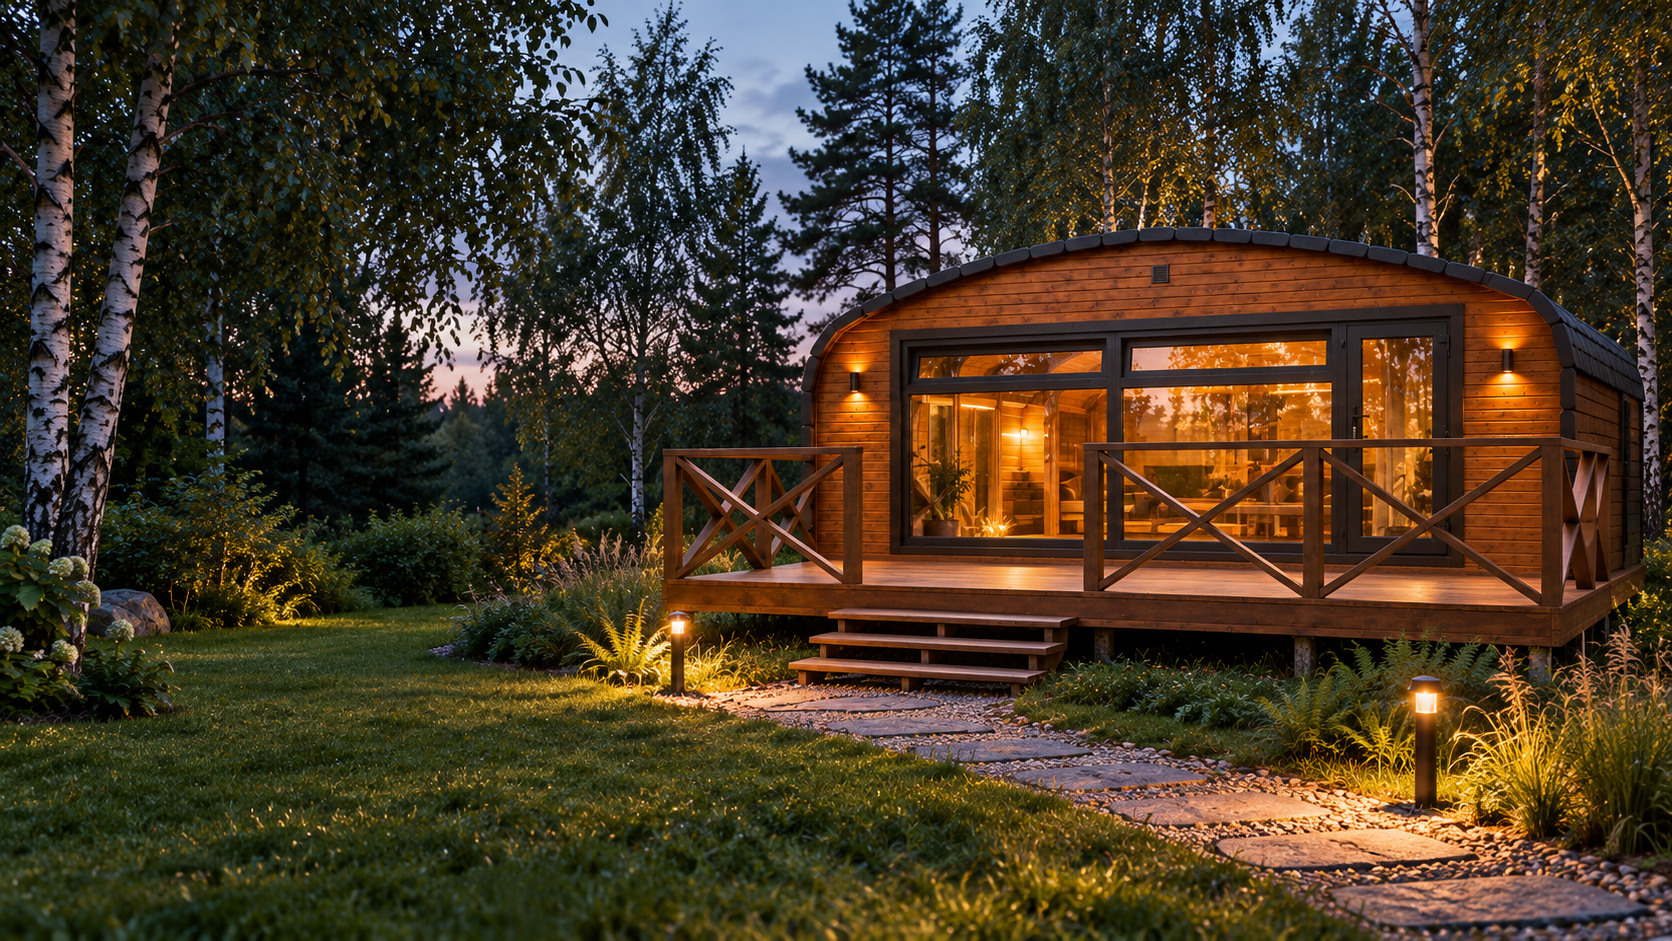
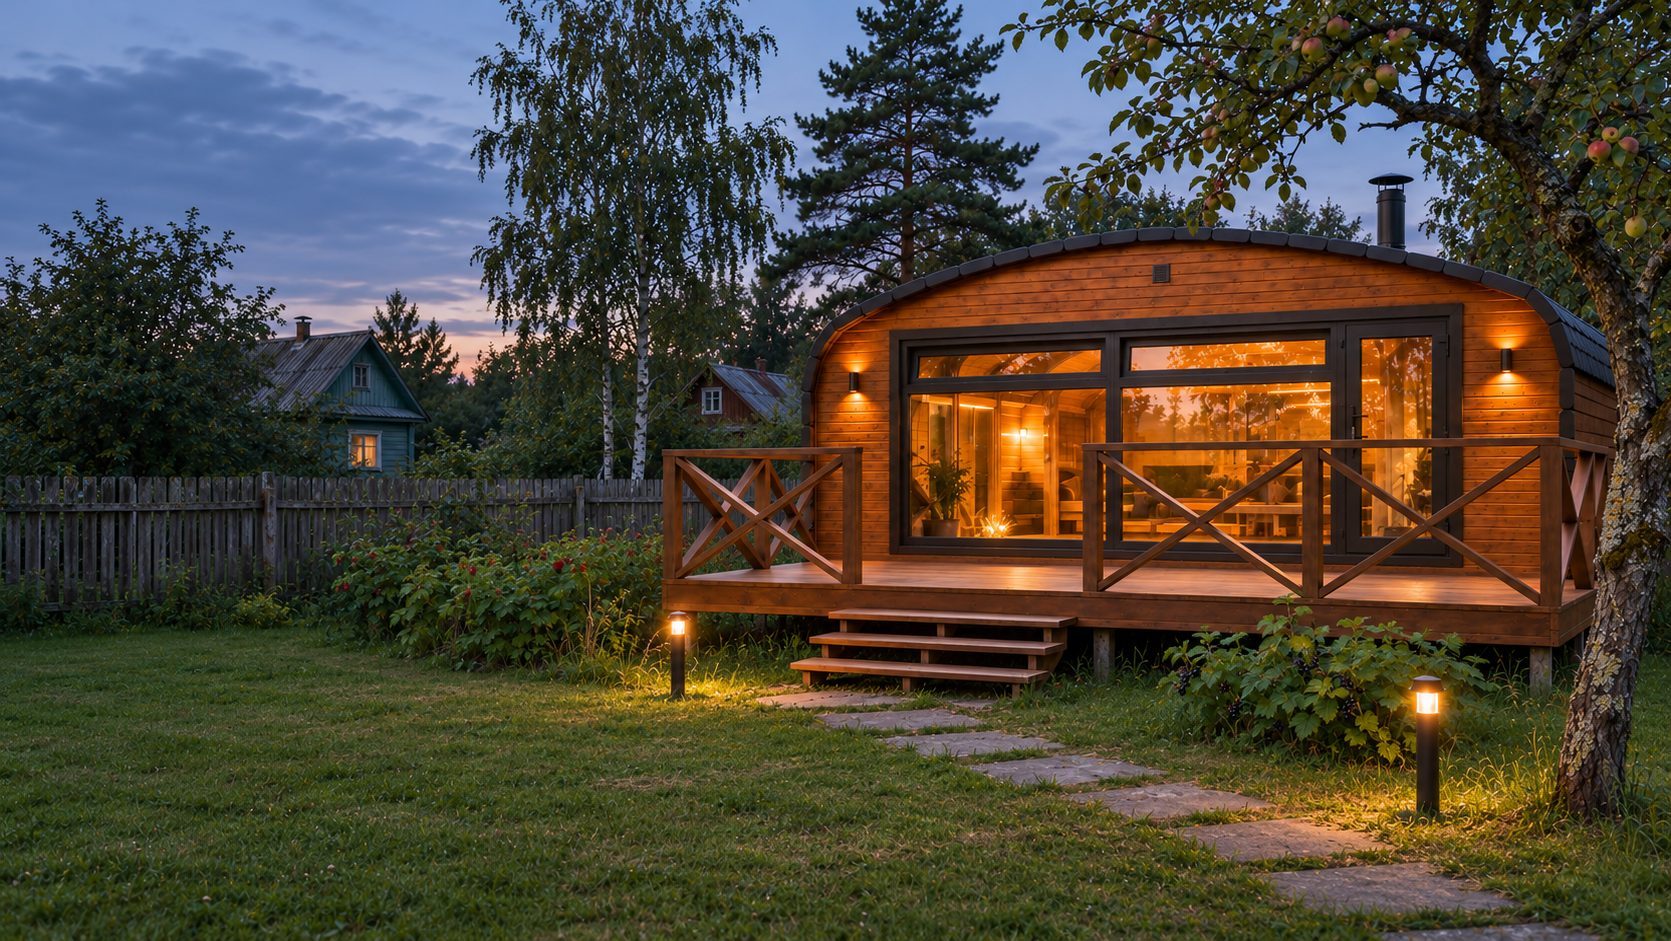
Refine home hero with northern dacha scenes and trust details

diff --git a/concepts/home-hero/hero.html b/concepts/home-hero/hero.html
@@ -1,5 +1,10 @@
 <section class="hero hh-hero" aria-labelledby="hh-heading" data-home-hero>
   <img class="hh-world" id="hh-world" src="/home-hero/assets/kvadro-1920.webp" srcset="/home-hero/assets/kvadro-640.webp 640w, /home-hero/assets/kvadro-1280.webp 1280w, /home-hero/assets/kvadro-1920.webp 1920w" sizes="100vw" width="1920" height="1080" alt="Квадро в вечернем саду: тёплые окна, берёзы и дорожка к своей бане" fetchpriority="high" decoding="async">
+  <svg class="hh-depth" viewBox="0 0 1672 941" preserveAspectRatio="xMidYMid slice" aria-hidden="true" focusable="false">
+    <defs><clipPath id="hh-roof"><polygon id="hh-roof-points" points="{{roof}}"/></clipPath></defs>
+    <text x="610" y="294" textLength="925" lengthAdjust="spacingAndGlyphs">ДАЧАПАР</text>
+    <image id="hh-depth-image" width="1672" height="941" preserveAspectRatio="none" clip-path="url(#hh-roof)"/>
+  </svg>
   <div class="hh-atmosphere" aria-hidden="true"></div>
   <div class="hh-copy">
     <p class="hh-eyebrow"><span aria-hidden="true">✳</span> Готовые бани для вашей дачи</p>
@@ -9,7 +14,6 @@
       <a class="hh-primary" id="hh-plans" href="/planirovki/?model=kvadro">Выбрать планировку <span aria-hidden="true">↗</span></a>
       <a class="hh-secondary" href="#models">Все модели и цены <span aria-hidden="true">↓</span></a>
     </div>
-    <p class="hh-production">Производим в Вологде. Доставляем на вашу дачу.</p>
   </div>
   <aside class="hh-model-note" aria-label="Модель на изображении">
     <span class="hh-note-kicker">В вашем саду</span>
@@ -23,6 +27,12 @@
     <button class="hh-model" type="button" data-hh-model="viking" aria-pressed="false"><span class="hh-model-top"><small>03</small><span aria-hidden="true">↗</span></span><strong>Викинг</strong><span class="hh-model-price" data-hh-price="viking">от {{viking}} ₽</span><span class="hh-model-tag">Характер в каждой линии</span></button>
     <button class="hh-model" type="button" data-hh-model="kvadro-house" aria-pressed="false"><span class="hh-model-top"><small>04</small><span aria-hidden="true">↗</span></span><strong>Квадро Хаус</strong><span class="hh-model-price" data-hh-price="kvadro-house">от {{kvadro-house}} ₽</span><span class="hh-model-tag">Для больших банных вечеров</span></button>
   </div>
-  <div class="hh-bottom"><span>Цены комплектации «Комфорт» · доставка отдельно</span><a href="#models">Дальше — ваша баня <span aria-hidden="true">↓</span></a><span class="hh-visual-note">Рекламная визуализация</span></div>
+  <ul class="hh-trust" aria-label="О производстве и заказе">
+    <li><strong>С 2015 года</strong><span>Строим бани для дачи</span></li>
+    <li><strong>Под ключ</strong><span>С гарантией</span></li>
+    <li><strong>Вологда</strong><span>Собственное производство</span></li>
+    <li><strong>До заказа</strong><span>Согласуем оснащение и стоимость</span></li>
+  </ul>
+  <div class="hh-bottom"><span>Цены «Комфорт» · доставка отдельно</span><span class="hh-visual-note">Рекламная визуализация</span></div>
   <p class="hh-status" id="hh-status" role="status" aria-live="polite"></p>
 </section>

diff --git a/concepts/home-hero/hero.css b/concepts/home-hero/hero.css
@@ -24,3 +24,27 @@
 }
 @media(max-width:360px){.hh-page>.site-header{gap:12px}.hh-page>.site-header .phone{font-size:10px}.hh-hero .hh-copy h1{font-size:44px}.hh-world{top:240px;height:90vw}.hh-model>strong{font-size:15px}.hh-model{padding-inline:12px}}
 @media(prefers-reduced-motion:reduce){.hh-world,.hh-primary,.hh-model,.hh-page #models .model{transition:none}.hh-model:hover,.hh-primary:hover{transform:none}.hh-page{scroll-behavior:auto}}
+/* Depth and trust strip. The SVG and the full photo share identical cover geometry. */
+.hh-depth{position:absolute;inset:0;width:100%;height:100%;z-index:-2;pointer-events:none}
+.hh-depth text{fill:#eef0df;opacity:.58;font-family:Manrope,Arial,sans-serif;font-size:192px;font-weight:800;letter-spacing:-.045em}
+.hh-atmosphere{z-index:-1}
+.hh-trust{position:absolute;inset:auto var(--hh-gap) 45px;display:grid;grid-template-columns:repeat(4,minmax(0,1fr));gap:16px;margin:0;padding:0;list-style:none;z-index:3}
+.hh-trust li{display:grid;gap:2px;border-left:1px solid #e5edd480;padding-left:15px}
+.hh-trust strong{font-size:20px;font-weight:650;line-height:1.2}
+.hh-trust span{color:#e2ead8;font-size:11px}
+.hh-dock{bottom:111px}
+.hh-model{min-height:85px;padding:13px 17px;align-content:center;gap:7px 12px}
+.hh-model-top,.hh-model-tag{display:none}
+.hh-model-note{bottom:215px}
+.hh-bottom{bottom:13px}
+@media(max-width:1100px){.hh-depth{display:none}}
+@media(max-width:900px){
+ .hh-page .hh-hero{min-height:932px}
+ .hh-actions{bottom:283px}
+ .hh-dock{bottom:142px}
+ .hh-model{min-height:60px;padding:9px 12px}
+ .hh-trust{bottom:32px;grid-template-columns:repeat(2,minmax(0,1fr));gap:9px 8px}
+ .hh-trust li{padding-left:9px}
+ .hh-trust strong{font-size:15px}
+ .hh-trust span{font-size:9px;line-height:1.35}
+}

diff --git a/concepts/home-hero/build.py b/concepts/home-hero/build.py
@@ -27,9 +27,7 @@ def compose(original, hero):
         raise RuntimeError('HOME_HERO_STOP: captured live baseline is not the reviewed home')
     # Preserve every byte of the catalogue, other sections, dialog and original scripts.
     baseline_tail = after
-    before = before.replace('</head>', '<link rel="stylesheet" href="/home-hero/hero.css">'
-                            '<link rel="preload" as="image" href="/home-hero/assets/kvadro-1920.webp">'
-                            '</head>')
+    before = before.replace('</head>', '<link rel="stylesheet" href="/home-hero/hero.css"></head>')
     if 'class="hh-page"' in before:
         raise RuntimeError('HOME_HERO_STOP: already overlaid')
     before = re.sub(r'<body\b', '<body class="hh-page"', before, count=1)
@@ -46,7 +44,7 @@ def main():
     OUT.mkdir(parents=True, exist_ok=True)
     destination = OUT / 'home-hero'
     (destination / 'assets').mkdir(parents=True, exist_ok=True)
-    for name in ['hero.css', 'hero.mjs', 'catalog.mjs']:
+    for name in ['hero.css', 'hero.mjs', 'catalog.mjs', 'roof-points.mjs']:
         shutil.copy2(HERE / name, destination / name)
     for name in ['kvadro', 'parus', 'viking', 'house']:
         original = Image.open(HERE / 'assets' / (name + '.png')).convert('RGB')
@@ -56,6 +54,8 @@ def main():
                 destination / 'assets' / f'{name}-{width}.webp', quality=85, method=6)
     book = json.loads((ROOT / 'web/data/catalog-pricebook.json').read_text('utf-8'))
     hero = (HERE / 'hero.html').read_text('utf-8')
+    roof = (HERE / 'roof-points.mjs').read_text('utf-8')
+    hero = hero.replace('{{roof}}', re.search(r"kvadro: '([^']+)'", roof)[1])
     for model, prices in book['prices'].items():
         hero = hero.replace('{{' + model + '}}', f'{min(prices.values()):,}'.replace(',', ' '))
     original = BASELINE.read_text('utf-8')

diff --git a/concepts/home-hero/README.md b/concepts/home-hero/README.md
@@ -3,6 +3,14 @@
 Подготовлено 02.11.2026 по запросу владельца: объединить первый экран в одну сцену,
 как на новогоднем лендинге. Это отдельный кандидат; действующий домен не изменён.
 
+03.11.2026: визуализации перенесены на обычные дачные участки средней полосы и Севера.
+Архитектура моделей сохранена, окружение включает забор и соседские дома за деревьями.
+На широком экране надпись «ДАЧАПАР» частично закрывает крыша: используется второй слой
+того же кадра, обрезанный по контуру крыши. Маска меняется вместе с моделью. На телефоне
+декоративная надпись скрыта. Компактные переключатели и ссылки на планировки сохранены.
+Нижняя полоса: «С 2015 года», «Под ключ / С гарантией», «Вологда / Собственное
+производство», «До заказа / Согласуем оснащение и стоимость». Срок гарантии не заявлен.
+
 [Первый экран](preview-desktop.jpg) · [Телефон](preview-mobile.jpg) ·
 [Парус](preview-parus.jpg) · [Переход к каталогу](preview-scroll.jpg).
 

diff --git a/concepts/home-hero/DACHA-EDIT-PROMPT.md b/concepts/home-hero/DACHA-EDIT-PROMPT.md
@@ -1,0 +1,7 @@
+# ImageGen · дачное окружение · 03.11.2026
+
+Встроенный ImageGen, отдельная правка каждого из четырёх исходных кадров из коммита
+`90b664b`. Финальные файлы: `assets/kvadro.png`, `assets/parus.png`, `assets/viking.png`,
+`assets/house.png`.
+
+Edit supplied wide hero photograph. Keep the sauna architecture, color, windows, roof, doorway, chimney, terrace, perspective, framing and exact position/scale pixel-aligned as closely as possible. Change ONLY landscaping/background to a believable ordinary established dacha settlement in Vologda region or central/northern Russia in late summer at blue hour. Remove ornamental ferns and luxurious landscape gardening. Ordinary slightly uneven mown lawn and simple stepping stones, birch, Scots pine, an old apple tree, low blackcurrant and raspberry bushes. Add a modest weathered timber plank boundary fence extending across the middle background behind the sauna; beyond it partially visible two small neighboring Russian wooden dacha houses with modest pitched roofs among trees, one dim warm window. Keep background secondary and left 42% quiet/dark for website text, no building in left foreground. Warm sauna windows remain dominant. Natural restrained documentary architectural photography, lived-in without clutter. Same 16:9 aspect ratio. No words, logos, people, palms, ferns, designer gardens, festive decor.
